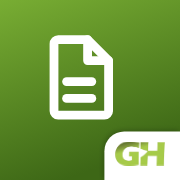
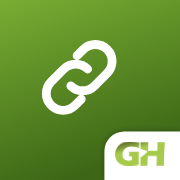
Íconos con el estilo de GH Tools

Changed region(s): [[0.2222, 0.1944, 0.6667, 0.6667]]

diff --git a/sw.js b/sw.js
@@ -1,6 +1,6 @@
 /* GH Cadenas — Copyright (c) 2026 Felipe Manrique. Todos los derechos reservados. */
 // Cache de la cáscara para abrir sin señal. SUBIR VERSION EN CADA CAMBIO (si no, los teléfonos nunca lo reciben).
-const VERSION = 'gh-cadenas-v1.2.2';
+const VERSION = 'gh-cadenas-v1.2.3';
 const PREFIJO = 'gh-cadenas-v';
 const SHELL = ['./', 'index.html', 'styles.css', 'app.js', 'manifest.webmanifest', 'icons/icon-192.png', 'icons/icon-512.png', 'icons/icon-32.png', 'icons/icon-maskable-512.png', 'apple-touch-icon.png', 'logo-gh.png', 'backend.js', 'cadenas.js', 'almacen.js', 'firma.js', 'pdf.js', 'demo.js', 'vendor/pdf-lib.min.js'];
 
